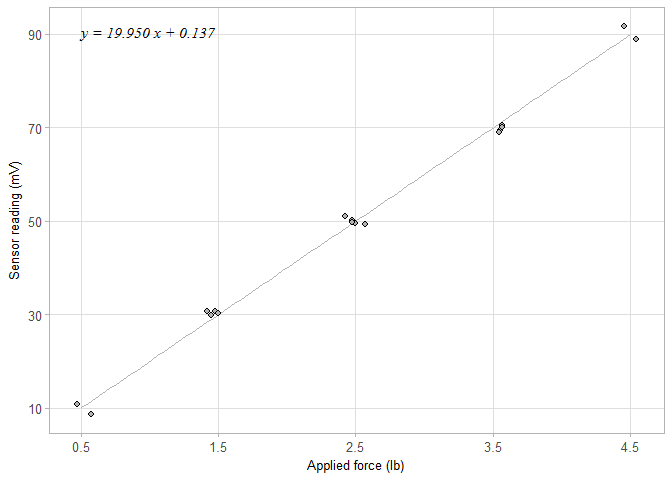
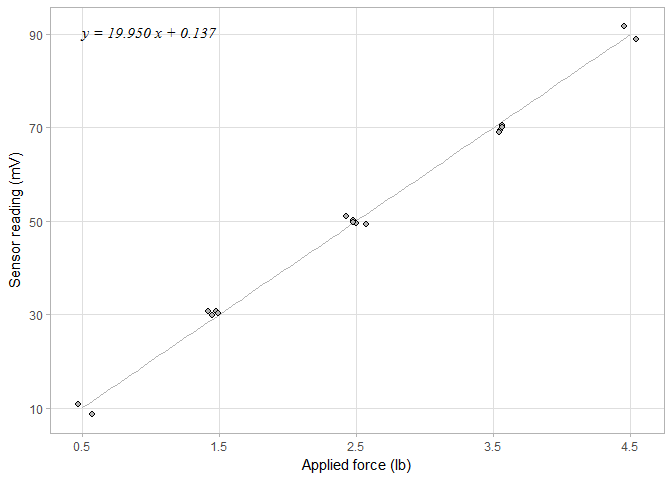
plyr dplyr fix in cm014

diff --git a/cm/cm014_project-1_graph-extras.md b/cm/cm014_project-1_graph-extras.md
@@ -18,29 +18,18 @@ Two possible approaches:
 
 Packages
 
+When running all scripts in order, I occasionally run into the problem that dplyr has been installed before plyr. To avoid that problem, I "unload" dplyr first, then reload plyr and dplyr in order.
+
 ``` r
-library(readr)
+unloadNamespace("dplyr")
 library(plyr)
+suppressPackageStartupMessages(library(dplyr))
 ```
 
-    ## -------------------------------------------------------------------------
-
-    ## You have loaded plyr after dplyr - this is likely to cause problems.
-    ## If you need functions from both plyr and dplyr, please load plyr first, then dplyr:
-    ## library(plyr); library(dplyr)
-
-    ## -------------------------------------------------------------------------
-
-    ## 
-    ## Attaching package: 'plyr'
-
-    ## The following objects are masked from 'package:dplyr':
-    ## 
-    ##     arrange, count, desc, failwith, id, mutate, rename, summarise,
-    ##     summarize
+Other packages.
 
 ``` r
-suppressPackageStartupMessages(library(dplyr))
+library(readr)
 library(ggplot2)
 ```
 
@@ -106,7 +95,7 @@ calibr_graph <- ggplot(graph_data, aes(input_lb, output_mV)) +
 print(calibr_graph)
 ```
 
-![](cm014_project-1_graph-extras_files/figure-markdown_github/unnamed-chunk-3-1.png)
+![](cm014_project-1_graph-extras_files/figure-markdown_github/unnamed-chunk-4-1.png)
 
 jitter
 ------
@@ -131,7 +120,7 @@ calibr_graph <- ggplot(graph_data, aes(input_lb, output_mV)) +
 print(calibr_graph)
 ```
 
-![](cm014_project-1_graph-extras_files/figure-markdown_github/unnamed-chunk-4-1.png)
+![](cm014_project-1_graph-extras_files/figure-markdown_github/unnamed-chunk-5-1.png)
 
 axis units from the data table
 ------------------------------
@@ -159,7 +148,7 @@ calibr_graph <- ggplot(graph_data, aes(input_lb, output_mV)) +
 print(calibr_graph)
 ```
 
-![](cm014_project-1_graph-extras_files/figure-markdown_github/unnamed-chunk-5-1.png)
+![](cm014_project-1_graph-extras_files/figure-markdown_github/unnamed-chunk-6-1.png)
 
 axis tick marks from the data
 -----------------------------
@@ -202,7 +191,7 @@ calibr_graph <- ggplot(graph_data, aes(input_lb, output_mV)) +
 print(calibr_graph)
 ```
 
-![](cm014_project-1_graph-extras_files/figure-markdown_github/unnamed-chunk-8-1.png)
+![](cm014_project-1_graph-extras_files/figure-markdown_github/unnamed-chunk-9-1.png)
 
 adding the calibration equation
 -------------------------------
@@ -233,7 +222,7 @@ calibr_graph <- ggplot(graph_data, aes(input_lb, output_mV)) +
 print(calibr_graph)
 ```
 
-![](cm014_project-1_graph-extras_files/figure-markdown_github/unnamed-chunk-9-1.png)
+![](cm014_project-1_graph-extras_files/figure-markdown_github/unnamed-chunk-10-1.png)
 
 font sizing
 -----------
@@ -262,7 +251,7 @@ calibr_graph <- ggplot(graph_data, aes(input_lb, output_mV)) +
 print(calibr_graph)
 ```
 
-![](cm014_project-1_graph-extras_files/figure-markdown_github/unnamed-chunk-10-1.png)
+![](cm014_project-1_graph-extras_files/figure-markdown_github/unnamed-chunk-11-1.png)
 
 ``` r
 ggsave("results/07_calibr_graph-extras.png", plot = calibr_graph, width = 6, height = 4, units = "in", dpi = 300)

diff --git a/cm/cm021_reshaping-data.md b/cm/cm021_reshaping-data.md
@@ -66,12 +66,12 @@ Copy the data in the row names to a new column.
 df <- df %>%
     mutate(Age_group = row.names(df))
 df
-##       Rural.Male Rural.Female Urban.Male Urban.Female Age_group
-## 50-54       11.7          8.7       15.4          8.4     50-54
-## 55-59       18.1         11.7       24.3         13.6     55-59
-## 60-64       26.9         20.3       37.0         19.3     60-64
-## 65-69       41.0         30.9       54.6         35.1     65-69
-## 70-74       66.0         54.3       71.1         50.0     70-74
+##   Rural.Male Rural.Female Urban.Male Urban.Female Age_group
+## 1       11.7          8.7       15.4          8.4     50-54
+## 2       18.1         11.7       24.3         13.6     55-59
+## 3       26.9         20.3       37.0         19.3     60-64
+## 4       41.0         30.9       54.6         35.1     65-69
+## 5       66.0         54.3       71.1         50.0     70-74
 ```
 
 -   `mutate()` automatically eliminates the original row names
@@ -81,12 +81,12 @@ df
 df <- df %>%
     select(Age_group, Rural.Male:Urban.Female)
 df
-##       Age_group Rural.Male Rural.Female Urban.Male Urban.Female
-## 50-54     50-54       11.7          8.7       15.4          8.4
-## 55-59     55-59       18.1         11.7       24.3         13.6
-## 60-64     60-64       26.9         20.3       37.0         19.3
-## 65-69     65-69       41.0         30.9       54.6         35.1
-## 70-74     70-74       66.0         54.3       71.1         50.0
+##   Age_group Rural.Male Rural.Female Urban.Male Urban.Female
+## 1     50-54       11.7          8.7       15.4          8.4
+## 2     55-59       18.1         11.7       24.3         13.6
+## 3     60-64       26.9         20.3       37.0         19.3
+## 4     65-69       41.0         30.9       54.6         35.1
+## 5     70-74       66.0         54.3       71.1         50.0
 ```
 
 We're ready to use `gather()` to reshape the wide form to long form.
